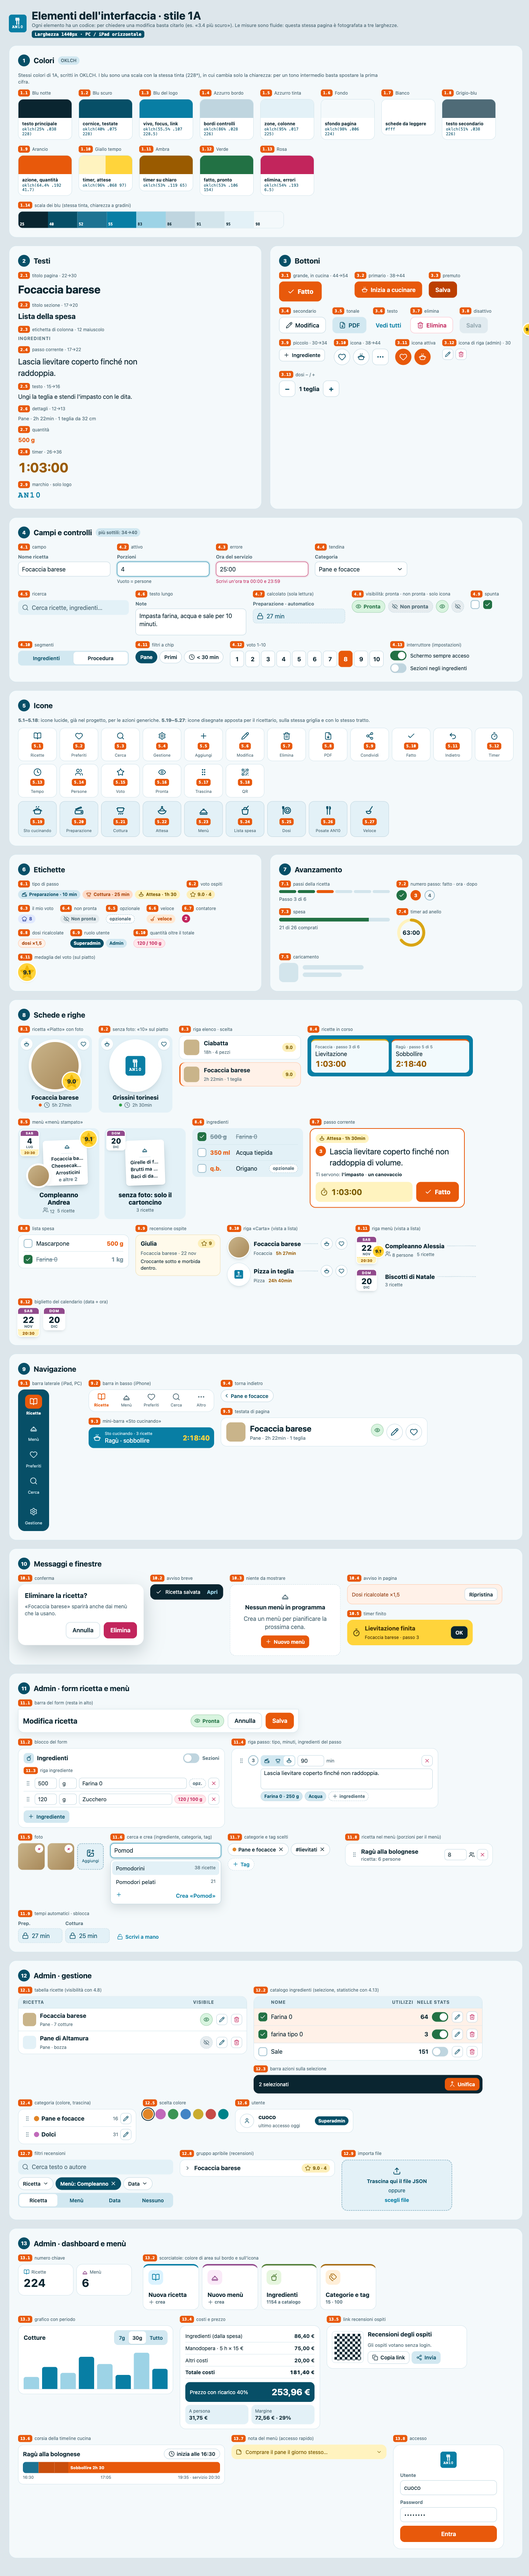
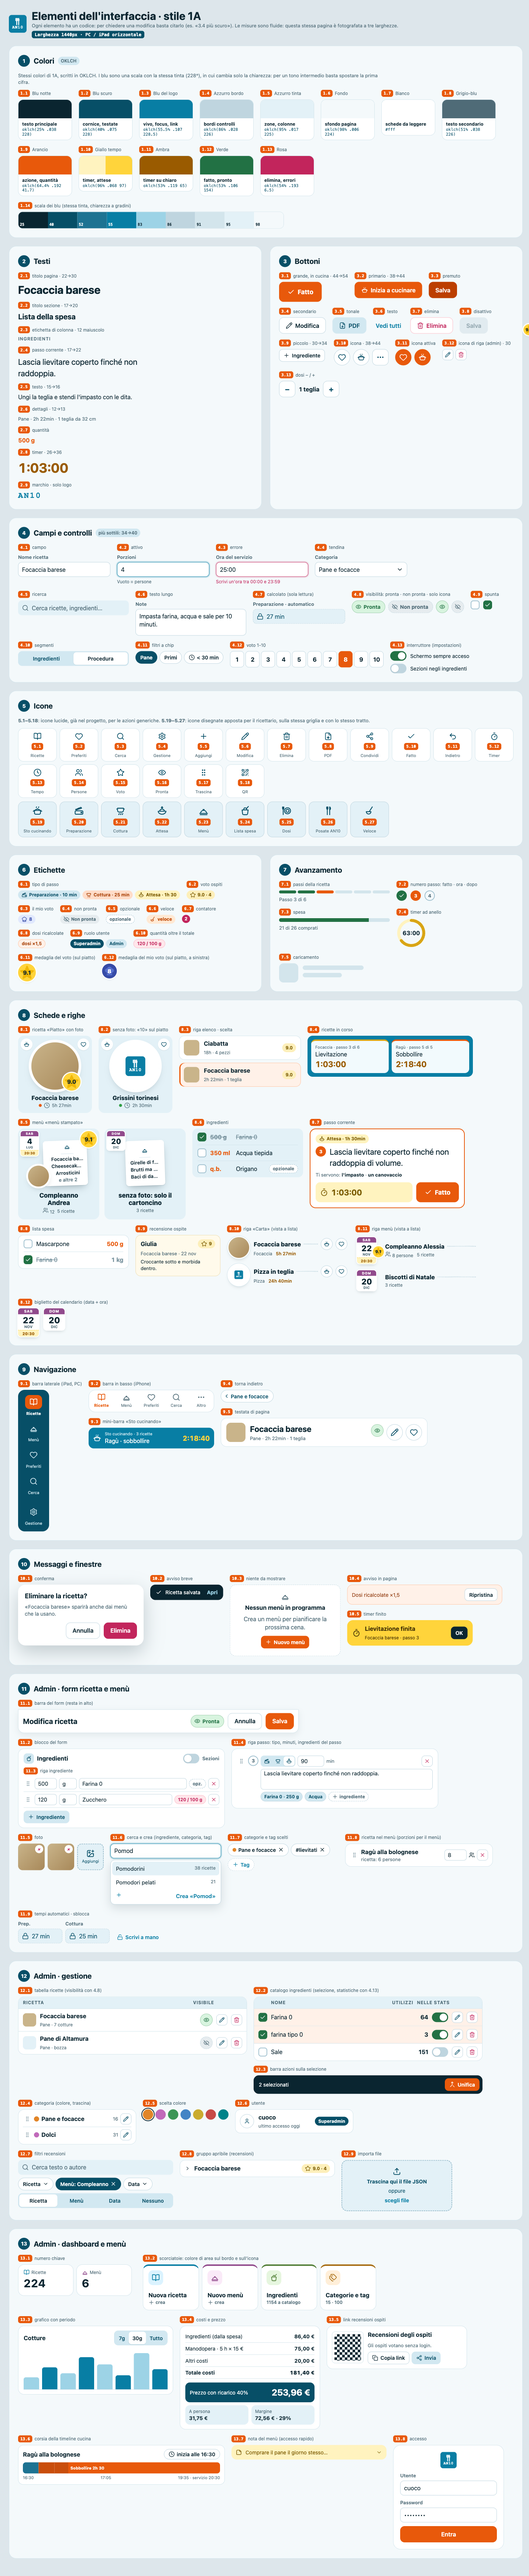
anteprima impostazioni: il mio voto come medaglia 6.12 (indaco, cappello da cuoco, intero) in basso a sinistra del piatto

diff --git a/docs/design/elementi.html b/docs/design/elementi.html
@@ -257,6 +257,7 @@ svg.s{width:1rem;height:1rem}
 .pc small i{width:8px;height:8px;border-radius:50%;display:inline-block}
 .medal{position:absolute;right:-4%;bottom:-2%;width:3rem;aspect-ratio:1;border-radius:50%;background:var(--giallo-400);color:var(--blu-950);font-weight:800;font-size:.9375rem;display:flex;align-items:center;justify-content:center;box-shadow:0 0 0 3px #fff,0 3px 6px -2px oklch(25% 0.038 228/.35)}
 .medal svg{position:absolute;inset:9%;width:82%;height:82%;color:oklch(81% 0.165 86)}.medal span{position:relative}
+.mymedal{position:relative;width:2.5rem;aspect-ratio:1;border-radius:50%;background:oklch(45% 0.15 270);color:#fff;font-weight:800;font-size:.9375rem;display:flex;align-items:center;justify-content:center;box-shadow:0 0 0 3px #fff,0 3px 6px -2px oklch(25% 0.038 228/.35)}.mymedal svg{position:absolute;inset:10%;width:80%;height:80%;color:oklch(57% 0.15 270)}.mymedal span{position:relative}
 .medal.sm{width:1.875rem;font-size:.6875rem;right:-.5rem;bottom:-.375rem}
 .crow{display:flex;align-items:center;gap:12px;padding:6px 4px;width:330px;max-width:100%}
 .crow .plate{width:56px;flex:none}.crow .plate .disc{box-shadow:0 0 0 3px #fff,0 0 0 4px var(--blu-150),0 6px 12px -4px oklch(25% 0.038 228/.3)}
@@ -378,6 +379,7 @@ svg.s{width:1rem;height:1rem}
   <div class="it"><div class="lab"><span class="ref">6.9</span><em>ruolo utente</em></div><div style="display:flex;gap:6px"><span class="tag role">Superadmin</span><span class="tag role l">Admin</span></div></div>
   <div class="it"><div class="lab"><span class="ref">6.10</span><em>quantità oltre il totale</em></div><span class="tag over">120 / 100 g</span></div>
   <div class="it"><div class="lab"><span class="ref">6.11</span><em>medaglia del voto (sul piatto)</em></div><div style="position:relative;width:3rem;height:3rem"><span class="medal" style="right:0;bottom:0"><svg viewBox="0 0 100 100"><path fill="currentColor" stroke="currentColor" stroke-width="9" stroke-linejoin="round" d="M50 7 L62.3 35.4 L93.1 38.2 L69.9 58.6 L76.6 88.8 L50 73 L23.4 88.8 L30.1 58.6 L6.9 38.2 L37.7 35.4 Z"/></svg><span>9.1</span></span></div></div>
+  <div class="it"><div class="lab"><span class="ref">6.12</span><em>medaglia del mio voto (sul piatto, a sinistra)</em></div><span class="mymedal"><svg viewBox="0 0 100 100"><g fill="currentColor"><circle cx="29" cy="45" r="17"/><circle cx="50" cy="34" r="21"/><circle cx="71" cy="45" r="17"/><rect x="27" y="44" width="46" height="26"/><rect x="27" y="73" width="46" height="13" rx="4"/></g></svg><span>8</span></span></div>
 </div></section>
 
 <section class="sec"><h2><span>7</span>Avanzamento</h2><div class="items">

diff --git a/docs/design/elementi.src.html b/docs/design/elementi.src.html
@@ -203,6 +203,7 @@ svg.s{width:1rem;height:1rem}
 .pc small i{width:8px;height:8px;border-radius:50%;display:inline-block}
 .medal{position:absolute;right:-4%;bottom:-2%;width:3rem;aspect-ratio:1;border-radius:50%;background:var(--giallo-400);color:var(--blu-950);font-weight:800;font-size:.9375rem;display:flex;align-items:center;justify-content:center;box-shadow:0 0 0 3px #fff,0 3px 6px -2px oklch(25% 0.038 228/.35)}
 .medal svg{position:absolute;inset:9%;width:82%;height:82%;color:oklch(81% 0.165 86)}.medal span{position:relative}
+.mymedal{position:relative;width:2.5rem;aspect-ratio:1;border-radius:50%;background:oklch(45% 0.15 270);color:#fff;font-weight:800;font-size:.9375rem;display:flex;align-items:center;justify-content:center;box-shadow:0 0 0 3px #fff,0 3px 6px -2px oklch(25% 0.038 228/.35)}.mymedal svg{position:absolute;inset:10%;width:80%;height:80%;color:oklch(57% 0.15 270)}.mymedal span{position:relative}
 .medal.sm{width:1.875rem;font-size:.6875rem;right:-.5rem;bottom:-.375rem}
 .crow{display:flex;align-items:center;gap:12px;padding:6px 4px;width:330px;max-width:100%}
 .crow .plate{width:56px;flex:none}.crow .plate .disc{box-shadow:0 0 0 3px #fff,0 0 0 4px var(--blu-150),0 6px 12px -4px oklch(25% 0.038 228/.3)}
@@ -324,6 +325,7 @@ svg.s{width:1rem;height:1rem}
   <div class="it"><div class="lab"><span class="ref">6.9</span><em>ruolo utente</em></div><div style="display:flex;gap:6px"><span class="tag role">Superadmin</span><span class="tag role l">Admin</span></div></div>
   <div class="it"><div class="lab"><span class="ref">6.10</span><em>quantità oltre il totale</em></div><span class="tag over">120 / 100 g</span></div>
   <div class="it"><div class="lab"><span class="ref">6.11</span><em>medaglia del voto (sul piatto)</em></div><div style="position:relative;width:3rem;height:3rem"><span class="medal" style="right:0;bottom:0"><svg viewBox="0 0 100 100"><path fill="currentColor" stroke="currentColor" stroke-width="9" stroke-linejoin="round" d="M50 7 L62.3 35.4 L93.1 38.2 L69.9 58.6 L76.6 88.8 L50 73 L23.4 88.8 L30.1 58.6 L6.9 38.2 L37.7 35.4 Z"/></svg><span>9.1</span></span></div></div>
+  <div class="it"><div class="lab"><span class="ref">6.12</span><em>medaglia del mio voto (sul piatto, a sinistra)</em></div><span class="mymedal"><svg viewBox="0 0 100 100"><g fill="currentColor"><circle cx="29" cy="45" r="17"/><circle cx="50" cy="34" r="21"/><circle cx="71" cy="45" r="17"/><rect x="27" y="44" width="46" height="26"/><rect x="27" y="73" width="46" height="13" rx="4"/></g></svg><span>8</span></span></div>
 </div></section>
 
 <section class="sec"><h2><span>7</span>Avanzamento</h2><div class="items">

diff --git a/components/recipe/RatingMedal.tsx b/components/recipe/RatingMedal.tsx
@@ -44,3 +44,35 @@ export function RatingMedal({
     </span>
   );
 }
+
+/**
+ * 6.12 · medaglia del **mio voto** (voto personale dell'admin, `RecipeRating`), gemella della 6.11:
+ * tondo indaco `mio-ink` (il colore del voto personale, 6.3) col bordo bianco, dietro il numero il
+ * **cappello da cuoco** pieno in un indaco più chiaro, cifre bianche. Numero intero (il voto
+ * personale è 1-10 senza decimali), quindi un po' più piccola della 6.11. Sul piatto sta in basso
+ * a sinistra, speculare a quella degli ospiti. Posizione e misura dal chiamante, come la 6.11.
+ */
+export function MyRatingMedal({ value, muted = false, className }: { value: number; muted?: boolean; className?: string }) {
+  return (
+    <span
+      className={clsx(
+        "tabular flex aspect-square items-center justify-center rounded-full leading-none font-extrabold shadow-[0_0_0_3px_white,0_3px_6px_-2px_oklch(25%_0.038_228/.35)]",
+        muted ? "bg-blu-120 text-grigio" : "bg-mio-ink text-white",
+        className
+      )}
+      title={`Il mio voto: ${value}/10`}
+    >
+      {/* cappello da cuoco pieno: tre sbuffi in cima e la fascia, un indaco più chiaro dietro il numero */}
+      <svg viewBox="0 0 100 100" aria-hidden className={clsx("absolute inset-[10%] size-[80%]", muted ? "text-blu-200" : "text-[oklch(57%_0.15_270)]")}>
+        <g fill="currentColor">
+          <circle cx="29" cy="45" r="17" />
+          <circle cx="50" cy="34" r="21" />
+          <circle cx="71" cy="45" r="17" />
+          <rect x="27" y="44" width="46" height="26" />
+          <rect x="27" y="73" width="46" height="13" rx="4" />
+        </g>
+      </svg>
+      <span className="relative">{Math.round(value)}</span>
+    </span>
+  );
+}

diff --git a/components/recipe/RecipeCard.tsx b/components/recipe/RecipeCard.tsx
@@ -3,7 +3,7 @@ import Link from "next/link";
 import Image from "next/image";
 import { clsx } from "clsx";
 import { Clock, Users } from "lucide-react";
-import { RatingMedal } from "./RatingMedal";
+import { MyRatingMedal, RatingMedal } from "./RatingMedal";
 import { type RecipeSummary, formatServings } from "@/lib/types";
 import { FavoriteButton } from "./FavoriteButton";
 import { CookingButton } from "@/components/cooking/CookingButton";
@@ -85,6 +85,14 @@ export function RecipeCard({ recipe }: { recipe: RecipeSummary }) {
             className="absolute -right-[4%] -bottom-[2%] w-[clamp(2rem,27cqi,3.25rem)] text-[clamp(0.6875rem,8cqi,1rem)]"
           />
         )}
+        {/* il mio voto (6.12): speculare, in basso a sinistra, un po' più piccola */}
+        {f.myRating && c.mine != null && (
+          <MyRatingMedal
+            value={c.mine}
+            muted={c.hidden}
+            className="absolute -bottom-[2%] -left-[4%] w-[clamp(1.75rem,22cqi,2.625rem)] text-[clamp(0.6875rem,7.5cqi,0.9375rem)]"
+          />
+        )}
       </div>
 
       <h3
@@ -129,9 +137,6 @@ export function RecipeCard({ recipe }: { recipe: RecipeSummary }) {
           <span className="tabular whitespace-nowrap">
             {c.guest.count} {c.guest.count === 1 ? "voto" : "voti"}
           </span>
-        )}
-        {f.myRating && c.mine != null && (
-          <span className={clsx("tabular font-bold whitespace-nowrap", !c.hidden && "text-mio-ink")}>mio {c.mine}</span>
         )}
       </span>
       {f.tags && recipe.tags.length > 0 && (

diff --git a/components/recipe/RecipeRow.tsx b/components/recipe/RecipeRow.tsx
@@ -10,7 +10,7 @@ import { An10Logo } from "@/components/brand/An10Logo";
 import { PotIcon } from "@/components/icons";
 import { pressCls, useCardInfo } from "./card-info";
 import { useCardConfig } from "@/components/CardConfigProvider";
-import { RatingMedal } from "./RatingMedal";
+import { MyRatingMedal, RatingMedal } from "./RatingMedal";
 
 /**
  * 8.10 · riga ricetta «Carta» (vista a lista: libreria, preferiti). Come la carta di un ristorante:
@@ -75,6 +75,14 @@ export function RecipeRow({ recipe }: { recipe: RecipeSummary }) {
           className="absolute -right-2 -bottom-1.5 w-[1.875rem] text-[0.6875rem] @min-[34rem]/row:w-[2.125rem] @min-[34rem]/row:text-[0.75rem]"
         />
       )}
+      {/* il mio voto (6.12): speculare, in basso a sinistra */}
+      {f.myRating && c.mine != null && (
+        <MyRatingMedal
+          value={c.mine}
+          muted={c.hidden}
+          className="absolute -bottom-1.5 -left-2 w-[1.625rem] text-[0.6875rem] @min-[34rem]/row:w-[1.875rem]"
+        />
+      )}
       </span>
 
       <span className="flex min-w-0 flex-1 flex-col gap-1">
@@ -130,7 +138,6 @@ export function RecipeRow({ recipe }: { recipe: RecipeSummary }) {
                 {c.guest.count} {c.guest.count === 1 ? "voto" : "voti"}
               </span>
             )}
-            {f.myRating && c.mine != null && <span className={clsx("tabular font-bold", !c.hidden && "text-mio-ink")}>mio {c.mine}</span>}
           </span>
         </span>
         {f.tags && recipe.tags.length > 0 && (

diff --git a/lib/card-config.ts b/lib/card-config.ts
@@ -20,7 +20,7 @@ export const RECIPE_FIELDS: { value: RecipeField; label: string; hint: string; a
   { value: "reviewCount", label: "Numero di voti", hint: "quanti ospiti hanno votato" },
   { value: "tags", label: "Tag", hint: "i primi tag della ricetta" },
   { value: "actions", label: "Pentola e cuore", hint: "«Sto cucinando» e preferiti" },
-  { value: "myRating", label: "Il mio voto", hint: "solo per chi è entrato", adminOnly: true },
+  { value: "myRating", label: "Il mio voto", hint: "medaglia indaco col cappello, solo per chi è entrato", adminOnly: true },
   { value: "cookCount", label: "Volte cucinata", hint: "solo per chi è entrato", adminOnly: true },
 ];
 

diff --git a/CLAUDE.md b/CLAUDE.md
@@ -212,7 +212,7 @@ Per un campo più piccolo su touch **non aggiungere una classe**: metti `data-co
 - `RecipeProgress` (`@@id([adminId, recipeId])`): avanzamento passi della pagina ricetta per admin, per **indice** di step (gli id sono instabili: il PUT ricetta fa delete-recreate) con `stepsCount` come guardia anti-stale. Il PUT `/api/recipes/[id]` cancella i progressi della ricetta quando gli step cambiano. Visitatori anonimi: localStorage (`ricettario:recipe-progress:{id}`). Vedi `lib/recipe-progress.ts`
 - `MenuRecipe.cookStartAt` (`DateTime?`): inizio pianificato della ricetta nella timeline cucina; nullo = calcolo automatico all'indietro dal servizio. Si imposta in tre modi, tutti verso la stessa PATCH `/api/menus/[id]/schedule`: drag della barra sulla timeline, oppure **a mano** con `StartTimeEditor` (tap sull'orario nella corsia della timeline o sul chip «inizia alle …» nella card dello stepper). `CookPlanner` possiede lo stato e passa a `MenuCookMode` sia `stepTimes` sia `starts` + i callback. ⚠ Il PUT `/api/menus/[id]` fa delete-recreate dei `MenuRecipe`: **deve** rileggere e reintegrare i `cookStartAt` esistenti (già gestito) o la pianificazione va persa
 - Il riordino righe (ingredienti/step del form ricetta, ricette del menù, categorie) è **solo drag & drop** via `ReorderList`/`ReorderRow` (niente più frecce ▲/▼); le righe del RecipeForm hanno un `uid` client-side (`crypto.randomUUID()`) come key stabile, mai inviato all'API
-- `RecipeRating` (`@@id([adminId, recipeId])`): **voto personale dell'admin** su una ricetta, uno per account — `rating` 1-10 + `note` opzionale. Distinto dalle recensioni ospiti (`Review`) e **NON incluso** nella media pubblica (`attachRecipeRatings` filtra `menuId: { not: null }`). Gestito da `PUT/DELETE /api/recipes/[id]/rating` (upsert per `adminId`). In lista è `RecipeSummary.myRating` (attaccato solo per l'admin loggato in `queryRecipeSummaries`; `getRecipeSummaries(adminId)` prende l'`adminId`, non più il booleano `isAdmin`). Nella `RecipeGrid` l'**ordinamento di default per l'admin è «Il mio voto»** (visitatore: «Valutazione»): il default è derivato da `isAdmin` a ogni render (la scelta esplicita di sort è persistita come `null`=nessuna, per non cachare il fallback dinamico mentre `isAdmin` arriva async). UI: `PersonalRatingCard` + `MyRatingLink` in alto + `MyRatingTag` sulla card. Migrazione: le vecchie note personali (`Review` con `menuId` NULL) sono state assorbite nell'ultimo voto per-admin e poi rimosse
+- `RecipeRating` (`@@id([adminId, recipeId])`): **voto personale dell'admin** su una ricetta, uno per account — `rating` 1-10 + `note` opzionale. Distinto dalle recensioni ospiti (`Review`) e **NON incluso** nella media pubblica (`attachRecipeRatings` filtra `menuId: { not: null }`). Gestito da `PUT/DELETE /api/recipes/[id]/rating` (upsert per `adminId`). In lista è `RecipeSummary.myRating` (attaccato solo per l'admin loggato in `queryRecipeSummaries`; `getRecipeSummaries(adminId)` prende l'`adminId`, non più il booleano `isAdmin`). Nella `RecipeGrid` l'**ordinamento di default per l'admin è «Il mio voto»** (visitatore: «Valutazione»): il default è derivato da `isAdmin` a ogni render (la scelta esplicita di sort è persistita come `null`=nessuna, per non cachare il fallback dinamico mentre `isAdmin` arriva async). UI: `PersonalRatingCard` + `MyRatingLink` in alto; nelle liste la medaglia 6.12 `MyRatingMedal` (indaco, cappello da cuoco) in basso a sinistra del piatto di `RecipeCard`/`RecipeRow` (se «Il mio voto» è acceso nelle informazioni delle card). I menù non hanno voto personale. Migrazione: le vecchie note personali (`Review` con `menuId` NULL) sono state assorbite nell'ultimo voto per-admin e poi rimosse
 - **Recensioni (voto 1-10, non più stelle)**: `Review` appartiene sempre a una `Recipe` e ora è **sempre** una recensione ospite (`menuId` valorizzato, dal link `/recensisci/[token]`). Il voto personale dell'admin **non** è più una `Review` (`menuId` NULL): vive in `RecipeRating` (vedi sopra). Storicamente `menuId` nullo = nota personale, ma quelle righe sono state migrate/rimosse e il POST che le creava (`/api/recipes/[id]/reviews`) è stato eliminato. Gli ospiti **non possono più** scrivere una recensione direttamente sulla pagina ricetta: l'unico modo è il link pubblico `/recensisci/[token]` (nessun login, protetto dal `Menu.reviewToken` generato alla creazione del menù), condivisibile dall'admin via bottone "Recensioni ospiti" sul dettaglio menù (link + QR, generato server-side con `qrcode`, mai esposto ai visitatori). `MenuReview` (voto al menù intero) è dismesso: nessuna nuova riga viene più creata, resta in schema solo come storico (non più mostrato in UI) perché non è ricostruibile una recensione-ricetta a partire da un voto dato all'intero menù. `Menu.avgRating`/`_count.reviews` (liste e dettaglio) sono ora calcolati aggregando `Menu.recipeReviews` (le `Review` arrivate dal link di quel menù), non più da `MenuReview`
 
 ## ⚠ Next.js 16 — non nel training data

diff --git a/DESIGN.md b/DESIGN.md
@@ -288,7 +288,7 @@ Ogni componente vive una volta sola in `components/ds/` (o nella cartella della 
 - **Campi (4.x)** `Field` + `TextInput` / `TextArea` / `Select` / `SearchField` / `ReadonlyValue`: sottili (34→40px), bordo `blu-200`, focus con bordo e alone blu del logo; ricerca su fondo azzurro senza bordo.
 - **Visibilità (4.8)** `VisibilityToggle`: sempre l'occhio; verde «pronta», tratteggiato grigio «non pronta».
 - **Scelte** `Checkbox` (4.9, spunta verde), `Segmented` (4.10, frecce da tastiera), `Chip` (4.11, attivo blu cornice), `RatingInput` (4.12, il voto scelto in arancio), `Switch` (4.13, solo impostazioni).
-- **Etichette (6.x)** `Tag` e derivati: tipo di passo, voto ospiti (oro), mio voto (indaco), non pronta, opzionale, veloce, dosi, sforamento. **6.11** `RatingMedal`: il voto ospiti come medaglia gialla col bordo bianco e una stella piena più scura dietro il numero, appoggiata sul bordo del piatto (8.1, 8.10), sulla tovaglia in alto a destra nella card menù (8.5) o sul bordo del biglietto della data (8.11).
+- **Etichette (6.x)** `Tag` e derivati: tipo di passo, voto ospiti (oro), mio voto (indaco), non pronta, opzionale, veloce, dosi, sforamento. **6.11** `RatingMedal`: il voto ospiti come medaglia gialla col bordo bianco e una stella piena più scura dietro il numero, appoggiata sul bordo del piatto (8.1, 8.10), sulla tovaglia in alto a destra nella card menù (8.5) o sul bordo del biglietto della data (8.11). **6.12** `MyRatingMedal`: il **mio voto** (voto personale dell'admin) come gemella della 6.11, indaco `mio-ink` col cappello da cuoco dietro il numero intero, un po' più piccola, in basso a sinistra del piatto (8.1, 8.10); sostituisce la scritta «mio N» nei dettagli. I menù non hanno voto personale.
 - **Avanzamento (7.x)** `StepProgress`, `StepNumber`, `ProgressBar`, `TimerRing`, `Skeleton`.
 - **Schede**: `Panel` (sezioni dei dettagli, `tone="note"` giallo), `RecipeCard` (8.1/8.2 «Piatto»: foto tonda come un piatto visto dall'alto sulla tovaglia `blu-100`, medaglia 6.11; non pronta = timbro «Non pronta» tratteggiato e inclinato sopra il piatto, testo e medaglia spenti, niente pentola né cuore), `RecipeRow` (8.10 «Carta»: vista a lista come la carta di un ristorante, piatto piccolo, nome · puntini · pentola e cuore, righe senza scheda), `MenuCard` (8.5 «menù stampato»: un menù è l'elenco dei suoi piatti, quindi sulla tovaglia c'è il cartoncino del menù con i nomi delle prime ricette — il dato che distingue un menù e che c'è sempre, anche senza foto —, un solo piatto con una foto se c'è, data 8.12 e voto 6.11 agli angoli in alto sulla tovaglia), `MenuRow` (8.11: biglietto e medaglia, nome · puntini), `DateTicket` (8.12: testata prugna = area menù col giorno della settimana, giorno grande, mese e, in fondo, l'ora del servizio su striscia gialla perché il giallo è il tempo), `CurrentStep` (8.7, bordo arancio). Griglia o lista e card per riga le sceglie chi guarda (`CollectionView`); le card mostrano più dettagli quando sono larghe.
 - **Cornice (9.x)** `NavRail`, `TabBar` (blu `blu-800` come la barra laterale, voce attiva su pastiglia arancio), `CookingRow`/`CookingMiniBar`, `BackLink`, `PageHeader` (`brand`: logo completo in cima alle pagine principali sul telefono).
